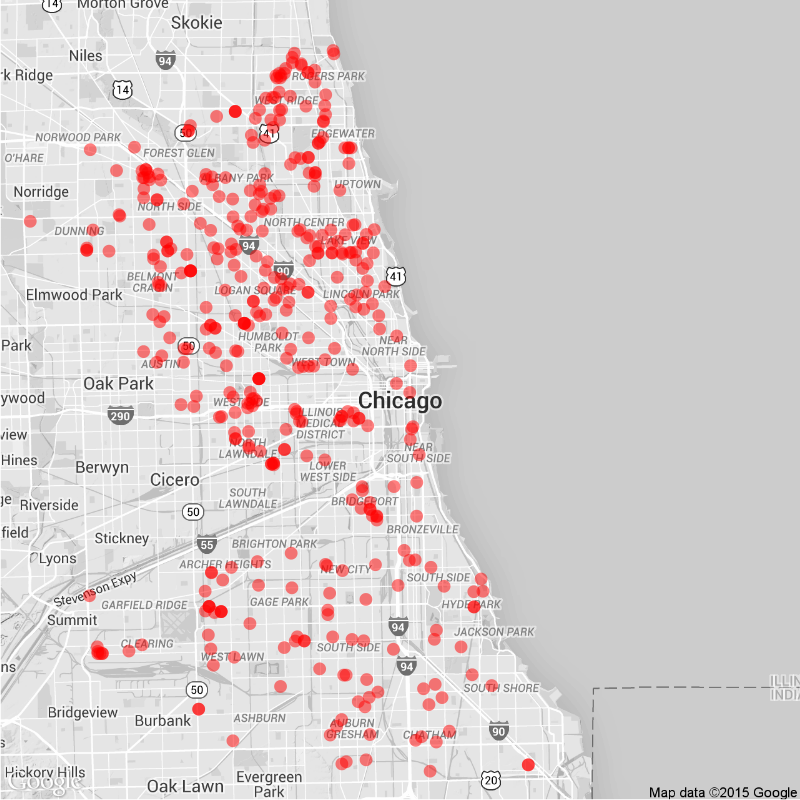
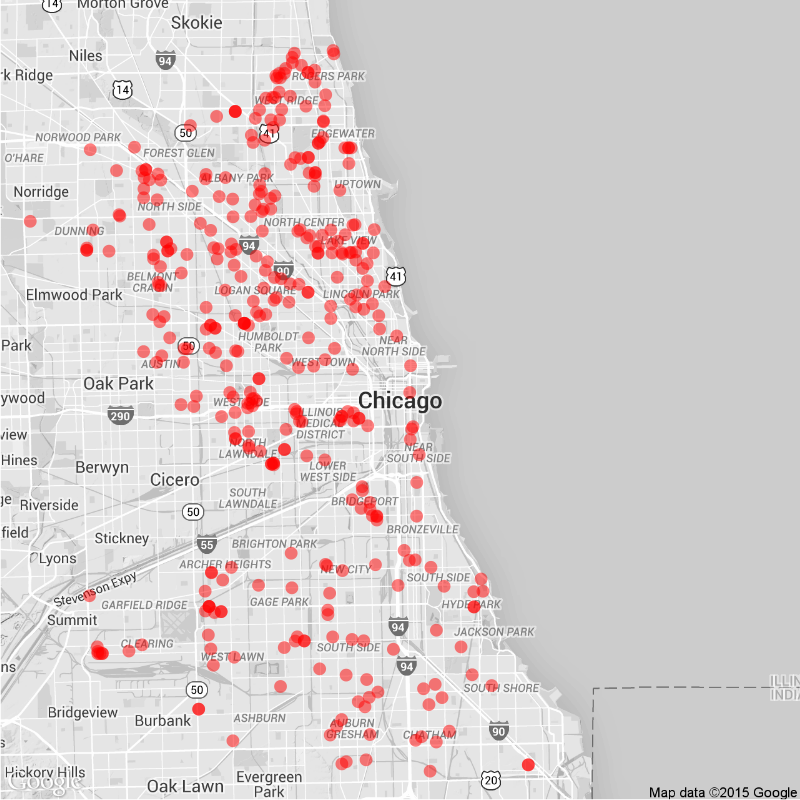
Daily Maps

diff --git a/daily.md b/daily.md
@@ -15,11 +15,11 @@ tags: Chicago NYC weekly daily rats
 
 ### Daily
 
-Yesterday (March 29), there were 18 calls to Chicago's 311 line about rats.
+Yesterday (March 30), there were 0 calls to Chicago's 311 line about rats.
 ![Chicago rat calls to 311 weekly map]({{ site.cityimages }}/daily/Chicago_Rat_Map_Daily.png)
 
 ### Weekly
-Between March 23 and March 29, there were 433 calls to Chicago's 311 line about rats. The average number of weekly calls for this time of year is 580.
+Between March 24 and March 30, there were 388 calls to Chicago's 311 line about rats. The average number of weekly calls for this time of year is 580.
 ![Chicago rat calls to 311 weekly map]({{ site.cityimages }}/daily/Chicago_Rat_Map_Weekly.png)
 
 Each red dot represents one call about a rat seen in that location. The dots are transparent, so multiple calls from one location will be seen as a solid dot. The usual caveats apply: more calls do not necessarily mean that there are more rats in that location than other parts of the city. A cluster of dots could indicate that one resident is unusually vocal about rodents in his or her neighborhood. Also, more densely populated neighborhoods tend to make more calls to 311.
